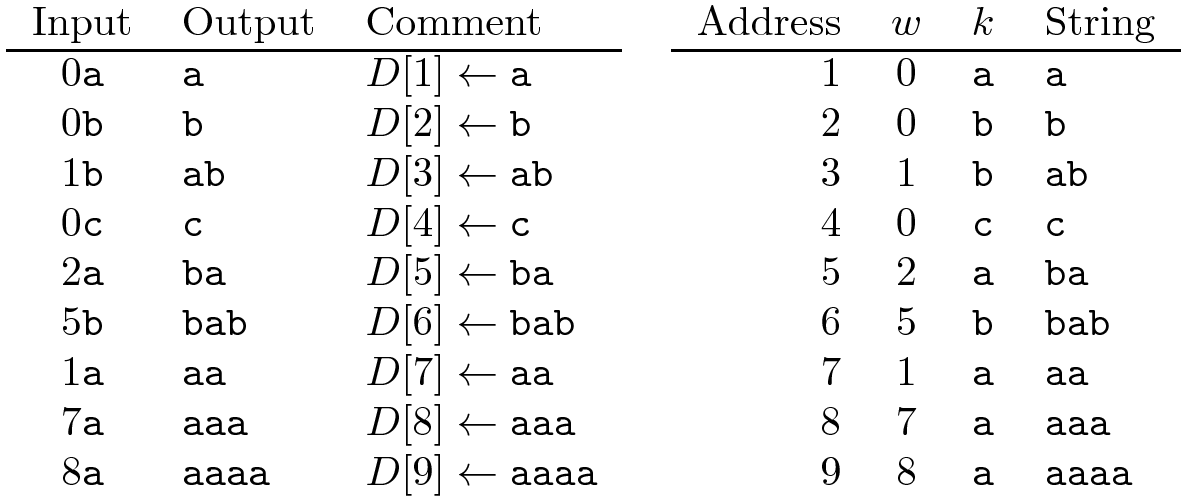
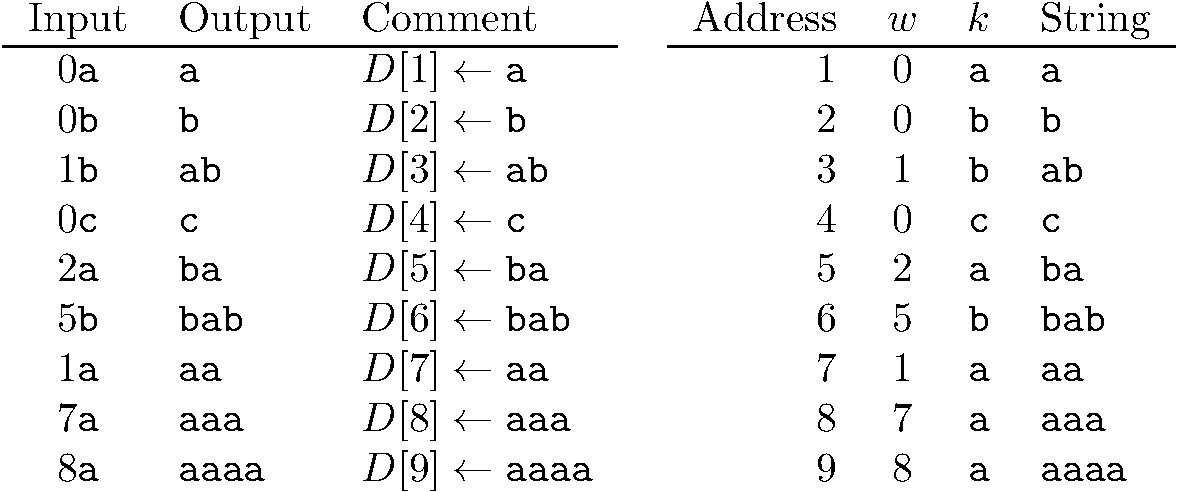
.

diff --git a/index.css b/index.css
@@ -87,7 +87,9 @@ td.td01{ padding-left:0pt; padding-right:5pt; }
 td.td10{ padding-left:5pt; padding-right:0pt; }
 td.td11{ padding-left:5pt; padding-right:5pt; }
 table[rules] {border-left:solid black 0.4pt; border-right:solid black 0.4pt; }
-.hline hr, .cline hr{ height : 1px; margin:0px; }
+.hline hr, .cline hr{ height : 0px; margin:0px; }
+.hline td, .cline td{ padding: 0; }
+.hline hr, .cline hr{border:none;border-top:1px solid black;}
 .tabbing-right {text-align:right;}
 span.TEX {letter-spacing: -0.125em; }
 span.TEX span.E{ position:relative;top:0.5ex;left:-0.0417em;}
@@ -97,8 +99,9 @@ span.LATEX span.TEX{ position:relative; left: -0.4em; }
 div.float, div.figure {margin-left: auto; margin-right: auto;}
 div.float img {text-align:center;}
 div.figure img {text-align:center;}
-.marginpar {width:20%; float:right; text-align:left; margin-left:auto; margin-top:0.5em; font-size:85%; text-decoration:underline;}
-.marginpar p{margin-top:0.4em; margin-bottom:0.4em;}
+.marginpar,.reversemarginpar {width:20%; float:right; text-align:left; margin-left:auto; margin-top:0.5em; font-size:85%; text-decoration:underline;}
+.marginpar p,.reversemarginpar p{margin-top:0.4em; margin-bottom:0.4em;}
+.reversemarginpar{float:left;}
 .equation td{text-align:center; vertical-align:middle; }
 td.eq-no{ width:5%; }
 table.equation { width:100%; } 
@@ -141,6 +144,7 @@ mtd.align-even{margin-right:2em; text-align:left;}
 .boxed{border: 1px solid black; padding-left:2px; padding-right:2px;}
 mo.qopname + mi{margin-left:0.3em}
 mi + mo.qopname{margin-left:0.3em}
+.rotatebox{display: inline-block;}
 .figure img.graphics {margin-left:10%;}
 div.tabular, div.center div.tabular {text-align: center; margin-top:0.5em; margin-bottom:0.5em; }
 table.tabular td p{margin-top:0em;}
@@ -157,11 +161,16 @@ td.td01{ padding-left:0pt; padding-right:5pt; }
 td.td10{ padding-left:5pt; padding-right:0pt; }
 td.td11{ padding-left:5pt; padding-right:5pt; }
 table[rules] {border-left:solid black 0.4pt; border-right:solid black 0.4pt; }
-.hline hr, .cline hr{ height : 1px; margin:0px; }
+.hline hr, .cline hr{ height : 0px; margin:0px; }
+.hline td, .cline td{ padding: 0; }
+.hline hr, .cline hr{border:none;border-top:1px solid black;}
 .supertabular {text-align:center}
 .lstlisting .label{margin-right:0.5em; }
 div.lstlisting{font-family: monospace; white-space: nowrap; margin-top:0.5em; margin-bottom:0.5em; }
 div.lstinputlisting{ font-family: monospace; white-space: nowrap; }
 .lstinputlisting .label{margin-right:0.5em;}
+table[rules] {border-left:solid black 0.4pt; border-right:solid black 0.4pt; }
+div.longtable{text-align:center;}
+table.longtable{margin-left:auto; margin-right: auto;}
 /* end css.sty */
 

diff --git a/index.html b/index.html
@@ -26,7 +26,7 @@ class="ecrm-1200">Vicente Gonz</span><span
 class="ecrm-1200">á</span><span 
 class="ecrm-1200">lez Ruiz</span></div><br />
 <div class="date" ><span 
-class="ecrm-1200">May 13, 2019</span></div>
+class="ecrm-1200">December 31, 2019</span></div>
    </div>
    <h3 class="sectionHead"><span class="titlemark">1   </span> <a 
  id="x1-10001"></a>LZ78 (Ziv and Lempel, 1978)</h3>
@@ -189,7 +189,7 @@ class="MathClass-rel">←</mo> <mn>0</mn></mrow></math>.</li></ol>
 </p>
    <h3 class="sectionHead"><span class="titlemark">3   </span> <a 
  id="x1-30003"></a>Example</h3>
-<!--l. 67--><p class="noindent" > <div style="text-align:center;"> <img width=700 src="graphics/LZ78_encoding_example.png" /> </div> 
+<!--l. 67--><p class="noindent" ><div style="text-align:center;"> <img width=700 src="graphics/LZ78_encoding_example.svg" /> </div> 
 </p>
    <h3 class="sectionHead"><span class="titlemark">4   </span> <a 
  id="x1-40004"></a>Decoder</h3>
@@ -239,7 +239,7 @@ display="inline" ><mrow
 </p>
    <h3 class="sectionHead"><span class="titlemark">5   </span> <a 
  id="x1-50005"></a>Example</h3>
-<!--l. 88--><p class="noindent" > <div style="text-align:center;"> <img width=600 src="graphics/LZ78_decoding_example.png" /> </div> 
+<!--l. 88--><p class="noindent" ><div style="text-align:center;"> <img width=600 src="graphics/LZ78_decoding_example.svg" /> </div> 
 </p><!--l. 90--><p class="noindent" >
 </p>
    <h4 class="subsectionHead"><span class="titlemark">5.1   </span> <a 
@@ -261,6 +261,10 @@ class="ecti-1000">IEEE  transactions  on  Information  Theory</span>,
    24(5):530–536, 1978.
 </p>
    </div>
+<!--l. 93--><p class="indent" >   6cm600
+<a 
+ id="Q1-1-8"></a>
+</p>
     
 </body> 
 </html>

diff --git a/texput.tex b/texput.tex
@@ -64,7 +64,7 @@
 \end{enumerate}
 
 \section{Example}
-\imgw{700}{graphics/LZ78_encoding_example.png}
+\myfig{graphics/LZ78_encoding_example}{7cm}{700}
 \section{Decoder}
 
 \begin{enumerate}
@@ -85,9 +85,9 @@
 \end{enumerate}
 
 \section{Example}
-\imgw{600}{graphics/LZ78_decoding_example.png}
+\myfig{graphics/LZ78_decoding_example}{6cm}{600}
 
 \subsection{Lab: LZ78}
 \href{https://nbviewer.jupyter.org/github/vicente-gonzalez-ruiz/LZ78/blob/master/LZ78.ipynb}{IPython notebook}
 
-\bibliography{text-compression}
+\bibliography{text-compression}{6cm}{600}
